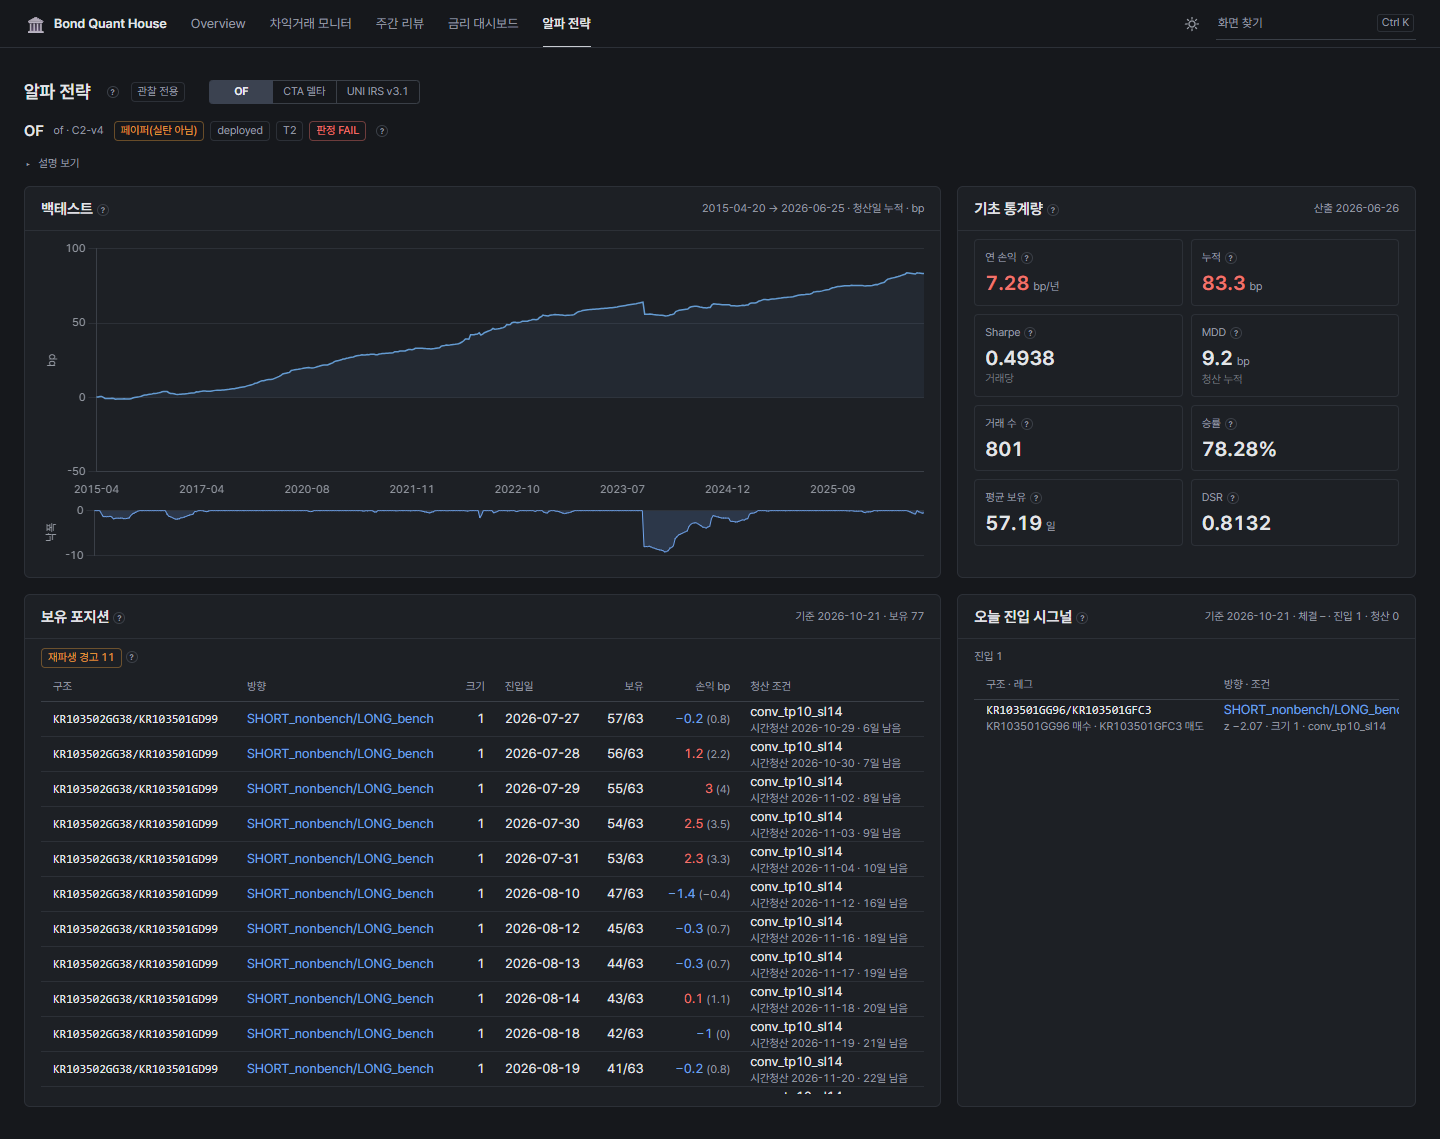
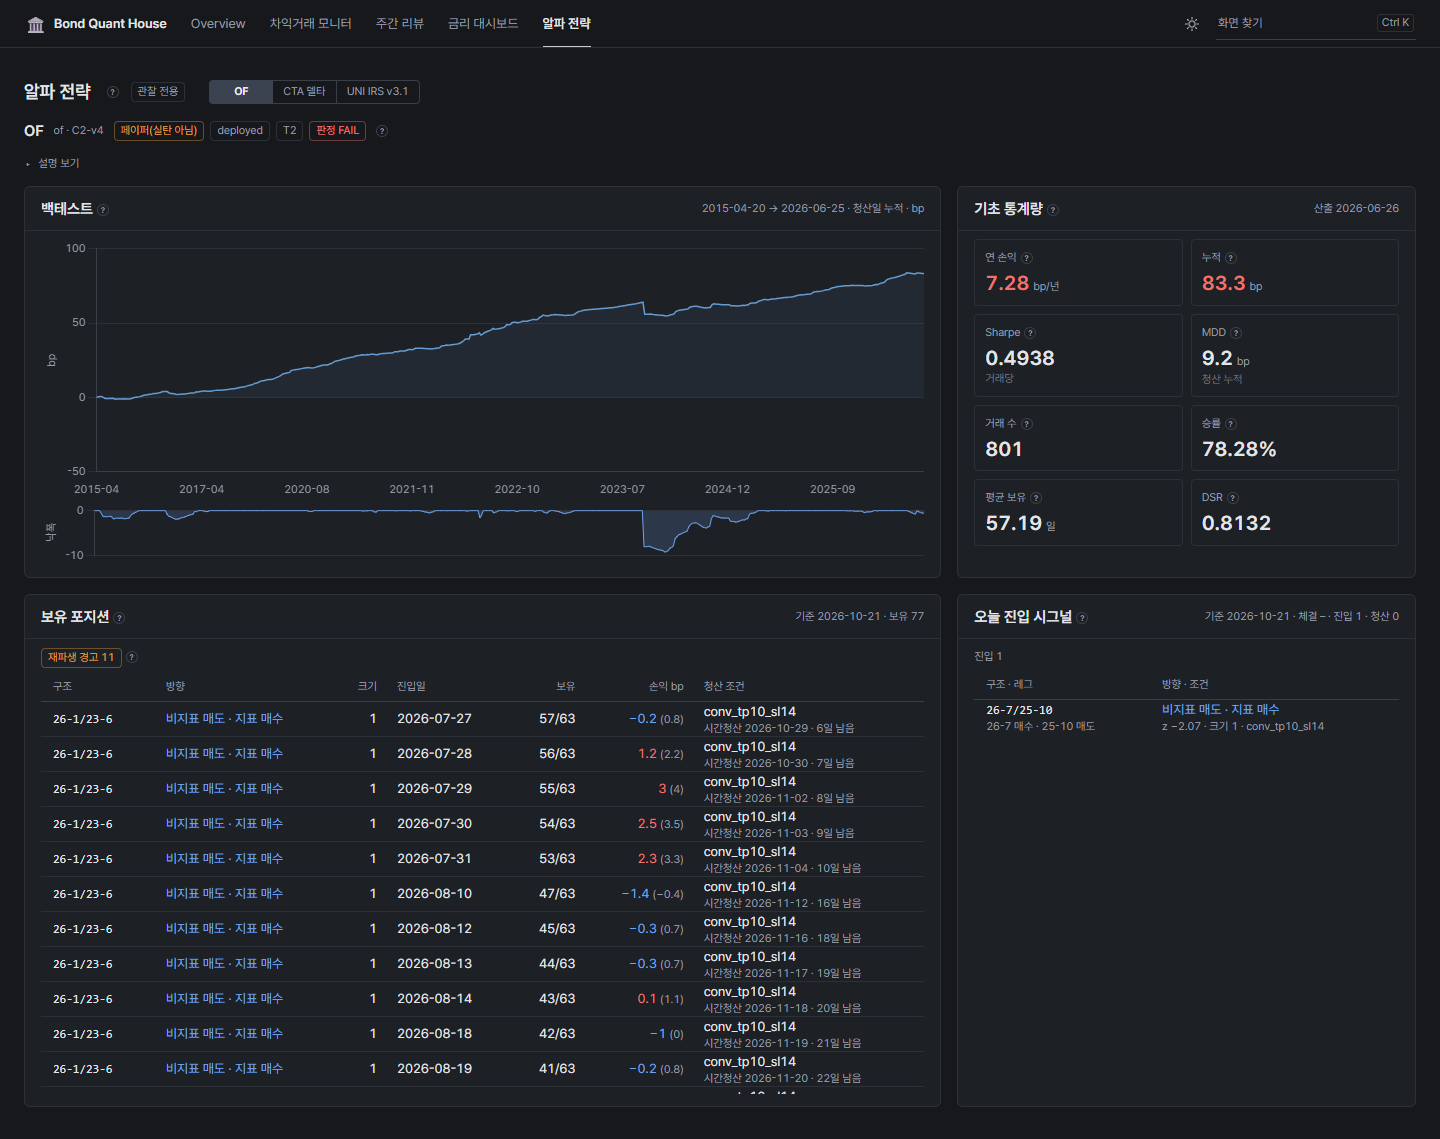
redesign-wb 6단계 다듬기: 알파 전략 OF 보유·신호 종목코드 → 약칭 · 방향 라벨 한글
- 약칭 = 리뷰 스냅샷(/quant-house/market-review) instrument[] · bond_rv[] {code, name} 의 name 끝 괄호 그대로(새 정의 0) · 매핑 없으면 원 코드
- 방향 = 고정 사전(SHORT_nonbench/LONG_bench → 비지표 매도 · 지표 매수 · 반대) · 사전에 없으면 원문
- 원 코드 · 원 방향 라벨 = 마우스 올림(title) · 사전 실패해도 보유·신호 블록 정상(원 코드)
- 검증(로컬): 알파 48/48 · 카나리아 A10(매핑 끔) 잡음

Changed region(s): [[0.0312, 0.5838, 0.625, 0.9526], [0.6875, 0.5838, 0.9688, 0.6453]]

diff --git a/assets/js/wb-alpha.js b/assets/js/wb-alpha.js
@@ -212,6 +212,27 @@
 
   // ══ ③ 보유 포지션 · ④ 오늘 진입 시그널 — forward 그대로 ══════════════════════
   //   연속북(cta_delta: targets[]) = 목표 포지션 트래킹 · 개별 진입(of · uni_irs_v3: open_positions[] · entries_today[] · exits[])
+  // ── 종목 약칭(OF 페어 종목코드 → '26-1' 등) — 리뷰 스냅샷(/quant-house/market-review)의 instrument[] · bond_rv[] {code, name} 그대로.
+  //    약칭 = name 끝 괄호 안('국고03000-2803(26-1)' → '26-1') · 매핑 없는 코드 = 원 코드 그대로 · 원문은 마우스 올림(title).
+  var CODE_RE = /^KR[0-9A-Z]{10}$/;
+  function loadNames() {
+    if (AL.names) return AL.names;
+    AL.names = apiGet('/quant-house/market-review').then(function (snap) {
+      var m = {};
+      ['instrument', 'bond_rv'].forEach(function (k) {
+        (Array.isArray(snap && snap[k]) ? snap[k] : []).forEach(function (x) {
+          if (x && typeof x.code === 'string' && typeof x.name === 'string' && !m[x.code]) { var mm = /\(([^()]+)\)\s*$/.exec(x.name); m[x.code] = mm ? mm[1] : x.name; }
+        });
+      });
+      return m;
+    }, function () { AL.names = null; return {}; });
+    return AL.names;
+  }
+  function nm(c) { var t = String(c == null ? '' : c).trim(); return (CODE_RE.test(t) && AL.nameMap && AL.nameMap[t]) || t; }
+  function codesTxt(s) { return String(s == null ? '' : s).split('/').map(nm).join('/'); }
+  var SIDE = { 'SHORT_nonbench/LONG_bench': '비지표 매도 · 지표 매수', 'LONG_nonbench/SHORT_bench': '비지표 매수 · 지표 매도' };   // 고정 사전 · 없는 라벨 = 원문
+  function sideTxt(s) { return s == null || s === '' ? '–' : (SIDE[s] || s); }
+  function hasCodes(fwd) { return /KR[0-9A-Z]{10}/.test(JSON.stringify([fwd.open_positions, fwd.entries_today, fwd.exits])); }
   function exitTxt(p) {
     var ep = p.exit_policy || {};
     return esc(ep.name || '–') + (p.exit_eta ? '<span class="al-sub">시간청산 ' + esc(p.exit_eta) + (isNum(p.days_to_time_exit) ? ' · ' + p.days_to_time_exit + '일 남음' : '') + '</span>' : '');
@@ -244,8 +265,8 @@
       (P.length ? '<div class="al-tablewrap"><table class="wb-table al-table" id="alPosT"><thead><tr><th class="lt">구조</th><th class="lt">방향</th><th class="num">크기</th><th class="lt">진입일</th><th class="num">보유</th><th class="num">손익 bp</th><th class="lt">청산 조건</th></tr></thead><tbody>' +
         P.map(function (p) {
           var pn = p.pnl_net_bp_if_exit;
-          return '<tr><td class="lt"><span class="mono">' + esc(p.signal || p.sleeve) + '</span>' + (p.sleeve && p.sleeve !== p.signal && p.family !== 'of_pair' ? '<span class="al-sub">' + esc(p.sleeve) + '</span>' : '') + '</td>' +
-            '<td class="lt ' + (p.sign > 0 ? 'wb-up' : p.sign < 0 ? 'wb-down' : '') + '">' + esc(p.side || '–') + '</td><td class="num">' + raw(p.size) + '</td><td class="lt">' + esc(p.entry_date || '–') + '</td>' +
+          return '<tr><td class="lt"><span class="mono" title="' + esc(p.signal || p.sleeve) + '">' + esc(codesTxt(p.signal || p.sleeve)) + '</span>' + (p.sleeve && p.sleeve !== p.signal && p.family !== 'of_pair' ? '<span class="al-sub">' + esc(p.sleeve) + '</span>' : '') + '</td>' +
+            '<td class="lt ' + (p.sign > 0 ? 'wb-up' : p.sign < 0 ? 'wb-down' : '') + '" title="' + esc(p.side || '') + '">' + esc(sideTxt(p.side)) + '</td><td class="num">' + raw(p.size) + '</td><td class="lt">' + esc(p.entry_date || '–') + '</td>' +
             '<td class="num">' + raw(p.days_held) + '/' + raw(p.max_hold) + '</td><td class="num ' + cls(pn) + '" title="gross ' + esc(raw(p.pnl_gross_bp)) + '">' + raw(pn) + ' <span class="al-sub" style="display:inline">(' + raw(p.pnl_gross_bp) + ')</span></td>' +
             '<td class="lt" title="' + esc(epTip(p)) + '">' + exitTxt(p) + '</td></tr>';
         }).join('') + '</tbody></table></div>' : '<div class="al-empty" id="alPosEmpty">보유 없음</div>') + '</div>';
@@ -274,13 +295,13 @@
     var h = '';
     if (E.length) h += '<div class="al-sigh">진입 ' + E.length + '</div><div class="al-tablewrap"><table class="wb-table al-table" id="alSigT"><thead><tr><th class="lt">구조 · 레그</th><th class="lt">방향 · 조건</th></tr></thead><tbody>' +
       E.map(function (e) {
-        var legs = Array.isArray(e.legs) ? e.legs.map(function (l) { return esc(l.leg) + ' ' + esc(l.dir); }).join(' · ') : '';
+        var legs = Array.isArray(e.legs) ? e.legs.map(function (l) { return esc(nm(l.leg)) + ' ' + esc(l.dir); }).join(' · ') : '';
         var cond = [isNum(e.z) ? 'z ' + raw(e.z) : '', '크기 ' + raw(e.size), get(e, 'exit_policy.name') ? esc(get(e, 'exit_policy.name')) : ''].filter(Boolean).join(' · ');
-        return '<tr><td class="lt"><span class="mono">' + esc(e.signal || e.sleeve) + '</span>' + (legs ? '<span class="al-sub">' + legs + '</span>' : '') + '</td>' +
-          '<td class="lt" title="' + esc(epTip(e)) + '"><span class="' + (e.sign > 0 ? 'wb-up' : e.sign < 0 ? 'wb-down' : '') + '">' + esc(e.side || '–') + '</span><span class="al-sub">' + cond + '</span></td></tr>';
+        return '<tr><td class="lt"><span class="mono" title="' + esc((e.signal || e.sleeve) + (Array.isArray(e.legs) ? ' · ' + e.legs.map(function (l) { return l.leg + ' ' + l.dir; }).join(' · ') : '')) + '">' + esc(codesTxt(e.signal || e.sleeve)) + '</span>' + (legs ? '<span class="al-sub">' + legs + '</span>' : '') + '</td>' +
+          '<td class="lt" title="' + esc(epTip(e)) + '"><span class="' + (e.sign > 0 ? 'wb-up' : e.sign < 0 ? 'wb-down' : '') + '" title="' + esc(e.side || '') + '">' + esc(sideTxt(e.side)) + '</span><span class="al-sub">' + cond + '</span></td></tr>';
       }).join('') + '</tbody></table></div>';
     if (X.length) h += '<div class="al-sigh">청산 ' + X.length + '</div><div class="al-tablewrap"><table class="wb-table al-table" id="alSigX"><thead><tr><th class="lt">구조</th><th class="lt">사유</th><th class="num">보유</th><th class="num">손익 bp</th></tr></thead><tbody>' +
-      X.map(function (x) { return '<tr><td class="lt mono">' + esc(x.signal || x.sleeve) + '</td><td class="lt">' + esc(x.reason || '–') + '</td><td class="num">' + raw(x.days_held) + '</td><td class="num ' + cls(x.pnl_net_bp) + '">' + raw(x.pnl_net_bp) + '</td></tr>'; }).join('') + '</tbody></table></div>';
+      X.map(function (x) { return '<tr><td class="lt mono" title="' + esc(x.signal || x.sleeve) + '">' + esc(codesTxt(x.signal || x.sleeve)) + '</td><td class="lt">' + esc(x.reason || '–') + '</td><td class="num">' + raw(x.days_held) + '</td><td class="num ' + cls(x.pnl_net_bp) + '">' + raw(x.pnl_net_bp) + '</td></tr>'; }).join('') + '</tbody></table></div>';
     host.innerHTML = cardHead('오늘 진입 시그널', tip, meta + ' · 진입 ' + E.length + ' · 청산 ' + X.length) +
       '<div class="al-body">' + (h || '<div class="al-empty" id="alSigEmpty">오늘 신호 없음</div>') + '</div>';
     STATS.sec.sig = 'ok';
@@ -318,12 +339,16 @@
       if (!r[1].ok) { $('alSt').innerHTML = cardHead('기초 통계량', '') + errBox('통계를 불러오지 못함 — ', r[1].e); STATS.sec.st = 'err'; return; }
       try { renderSt(id, r[0].ok ? r[0].v : null, r[1].v, r[0].ok ? null : r[0].e); } catch (e) { $('alSt').innerHTML = cardHead('기초 통계량', '') + errBox('그리기 실패 — ', emsg(e)); STATS.sec.st = 'err'; if (window.console) console.warn('al st', e); }
     });
-    var pos = settle(pFwd).then(function (r) {
+    var pFwdN = pFwd.then(function (f) {   // 종목코드가 있는 forward(OF)만 약칭 사전을 받음 · 사전 실패 = 원 코드 그대로(블록 격리 유지)
+      if (!f || !hasCodes(f)) return f;
+      return loadNames().then(function (m) { AL.nameMap = m; STATS.names = Object.keys(m).length; return f; });
+    });
+    var pos = settle(pFwdN).then(function (r) {
       if (!live()) return;
       if (!r.ok) { $('alPos').innerHTML = cardHead('보유 포지션', '') + errBox('forward 를 불러오지 못함 — ', r.e); STATS.sec.pos = 'err'; return; }
       try { renderPos(id, r.v); } catch (e) { $('alPos').innerHTML = cardHead('보유 포지션', '') + errBox('그리기 실패 — ', emsg(e)); STATS.sec.pos = 'err'; if (window.console) console.warn('al pos', e); }
     });
-    var sig = settle(pFwd).then(function (r) {
+    var sig = settle(pFwdN).then(function (r) {
       if (!live()) return;
       if (!r.ok) { $('alSig').innerHTML = cardHead('오늘 진입 시그널', '') + errBox('forward 를 불러오지 못함 — ', r.e); STATS.sec.sig = 'err'; return; }
       try { renderSig(id, r.v); } catch (e) { $('alSig').innerHTML = cardHead('오늘 진입 시그널', '') + errBox('그리기 실패 — ', emsg(e)); STATS.sec.sig = 'err'; if (window.console) console.warn('al sig', e); }
